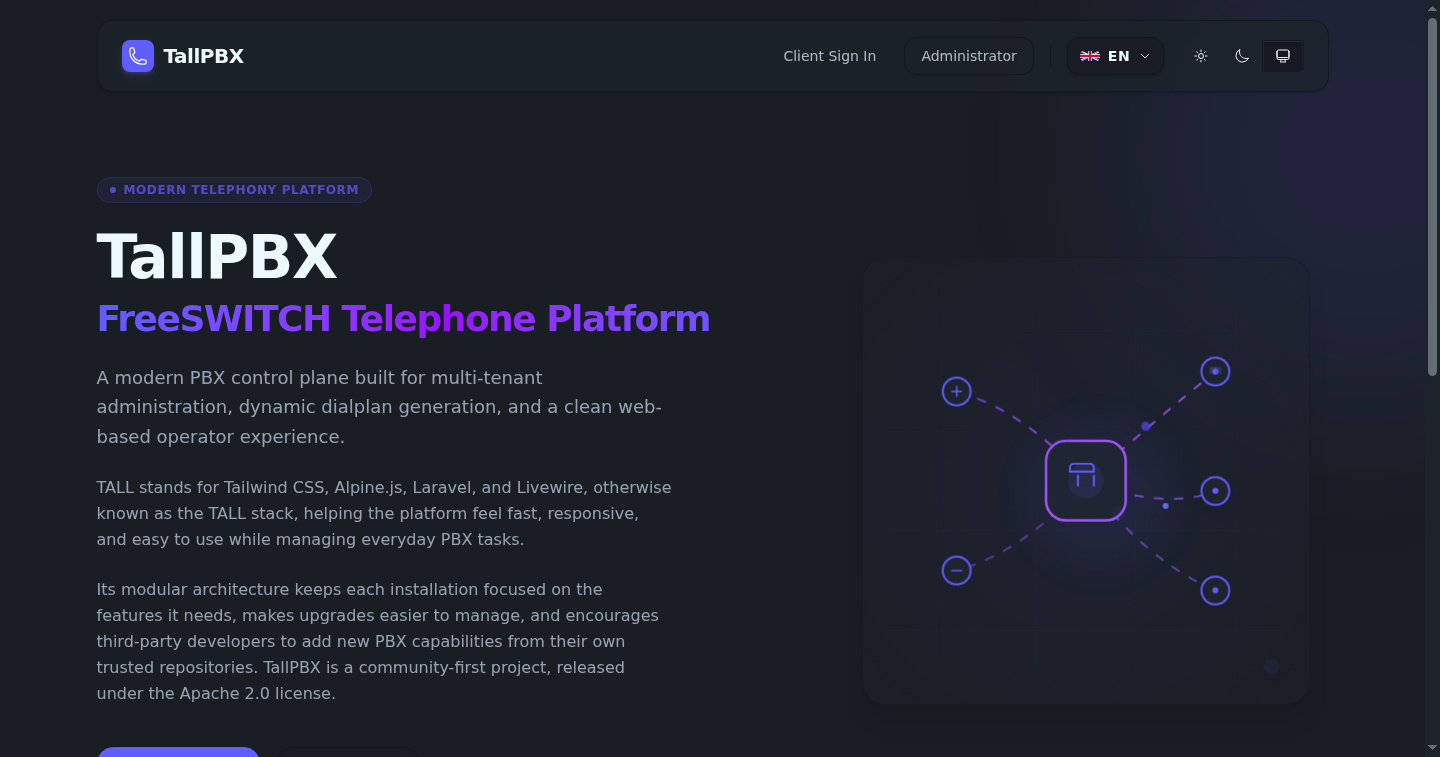
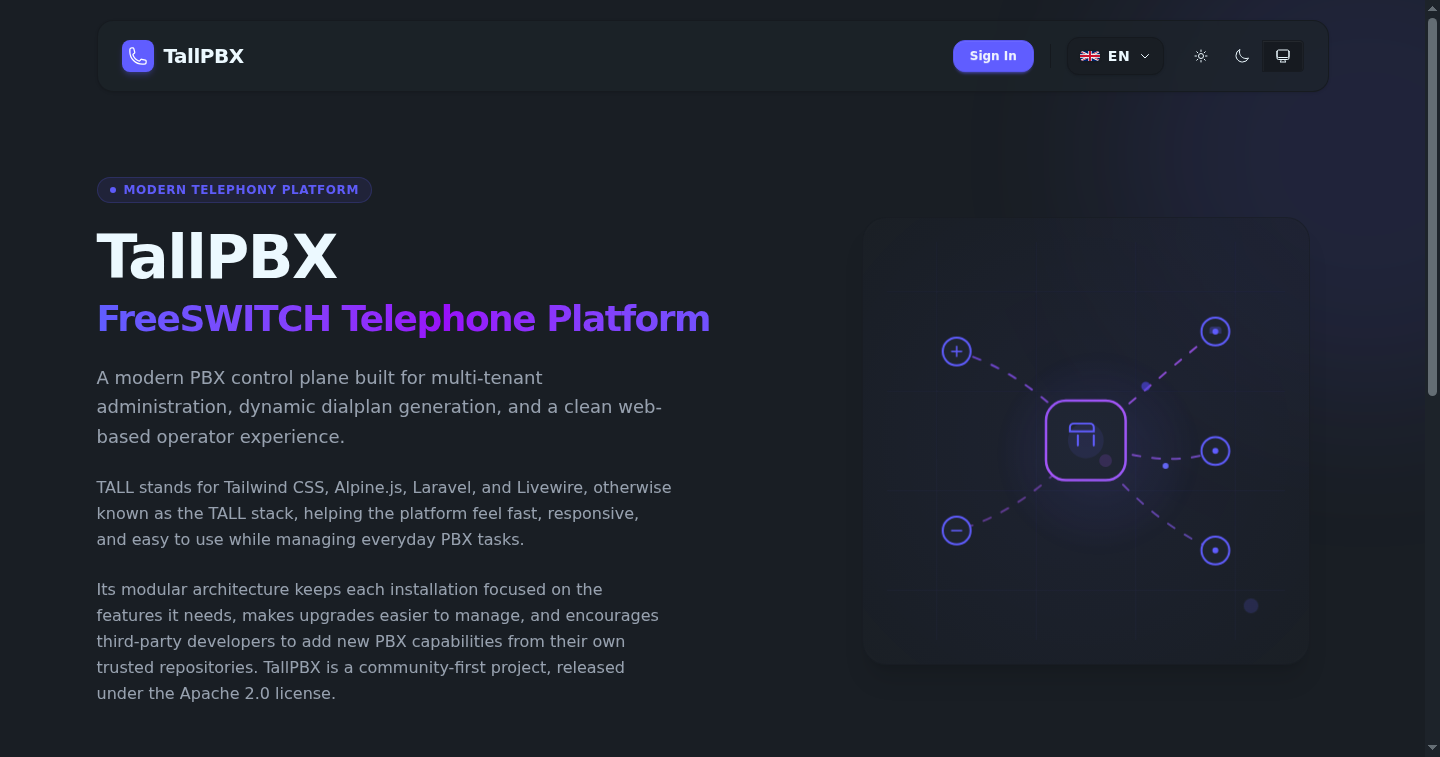
feat: unify panel login, simplify landing page header CTA, remove hero login buttons, and update tour screenshots

diff --git a/app/Http/Controllers/Admin/AuthController.php b/app/Http/Controllers/Admin/AuthController.php
@@ -34,10 +34,12 @@ class AuthController extends Controller
     }
 
     /**
-     * Handle an incoming admin login request.
+     * Handle an incoming login request for the unified panel.
      *
-     * Validates credentials, checks the admin account is enabled,
-     * regenerates the session, and redirects to the dashboard.
+     * Validates credentials and attempts authentication against the admin guard
+     * first (system administrators), then falls back to the web guard (tenant users).
+     * Ensures the matching account is enabled, regenerates the session, and redirects
+     * to the unified panel dashboard.
      */
     public function store(Request $request): RedirectResponse
     {
@@ -46,29 +48,77 @@ class AuthController extends Controller
             'password' => ['required'],
         ]);
 
-        if (! Auth::guard('admin')->attempt($credentials, $request->boolean('remember'))) {
-            throw ValidationException::withMessages([
-                'email' => __('auth.failed'),
-            ]);
+        $remember = $request->boolean('remember');
+
+        // 1. Attempt admin authentication (system administrators)
+        if (Auth::guard('admin')->attempt($credentials, $remember)) {
+            /** @var Admin $admin */
+            $admin = Auth::guard('admin')->user();
+
+            if (! $admin->enabled) {
+                Auth::guard('admin')->logout();
+
+                $request->session()->invalidate();
+                $request->session()->regenerateToken();
+
+                throw ValidationException::withMessages([
+                    'email' => __('auth.disabled'),
+                ]);
+            }
+
+            $request->session()->regenerate();
+
+            return redirect()->intended(route('panel.dashboard'));
         }
 
-        /** @var Admin $admin */
-        $admin = Auth::guard('admin')->user();
+        // 2. Attempt web authentication (tenant users)
+        if (Auth::guard('web')->attempt($credentials, $remember)) {
+            /** @var \App\Models\User $user */
+            $user = Auth::guard('web')->user();
 
-        if (! $admin->enabled) {
-            Auth::guard('admin')->logout();
+            if (! $user->enabled) {
+                Auth::guard('web')->logout();
 
-            $request->session()->invalidate();
-            $request->session()->regenerateToken();
+                $request->session()->invalidate();
+                $request->session()->regenerateToken();
 
-            throw ValidationException::withMessages([
-                'email' => __('auth.disabled'),
-            ]);
+                throw ValidationException::withMessages([
+                    'email' => __('auth.disabled'),
+                ]);
+            }
+
+            $request->session()->regenerate();
+
+            // When the user logs in through a tenant-specific domain, resolve
+            // the tenant from the login host and set it as the active context.
+            $loginDomain = $request->getHost();
+
+            if ($loginDomain !== '' && filter_var($loginDomain, FILTER_VALIDATE_IP) === false) {
+                $resolver = app(\App\Services\TenantIdentityResolver::class);
+                $identity = $resolver->resolveFromDomain($loginDomain);
+
+                if ($identity !== null) {
+                    $belongs = $user->tenants()
+                        ->where('tenant_id', $identity->tenantId)
+                        ->exists();
+
+                    if ($belongs) {
+                        $tenant = \App\Models\Tenant::find($identity->tenantId);
+
+                        if ($tenant !== null) {
+                            app(\App\Services\TenantContext::class)->switch($tenant);
+                        }
+                    }
+                }
+            }
+
+            return redirect()->intended(route('panel.dashboard'));
         }
 
-        $request->session()->regenerate();
-
-        return redirect()->intended(route('panel.dashboard'));
+        // 3. Neither admin nor tenant user matched the credentials
+        throw ValidationException::withMessages([
+            'email' => __('auth.failed'),
+        ]);
     }
 
     /**

diff --git a/app/Http/Controllers/Auth/AuthenticatedSessionController.php b/app/Http/Controllers/Auth/AuthenticatedSessionController.php
@@ -21,76 +21,19 @@ use Illuminate\View\View;
 class AuthenticatedSessionController extends Controller
 {
     /**
-     * Show the portal login form.
+     * Show the unified panel login form.
      */
     public function create(): View
     {
-        return view('tenant::auth.tenant-login');
+        return view('admin::auth.admin-login');
     }
 
     /**
-     * Handle an incoming login request.
-     *
-     * Validates credentials, checks the user account is enabled,
-     * regenerates the session, and redirects to the dashboard.
+     * Handle an incoming login request via the unified authentication handler.
      */
     public function store(Request $request): RedirectResponse
     {
-        $credentials = $request->validate([
-            'email' => ['required', 'email'],
-            'password' => ['required'],
-        ]);
-
-        if (! Auth::guard('web')->attempt($credentials, $request->boolean('remember'))) {
-            throw ValidationException::withMessages([
-                'email' => __('auth.failed'),
-            ]);
-        }
-
-        /** @var User $user */
-        $user = Auth::guard('web')->user();
-
-        if (! $user->enabled) {
-            Auth::guard('web')->logout();
-
-            $request->session()->invalidate();
-            $request->session()->regenerateToken();
-
-            throw ValidationException::withMessages([
-                'email' => __('auth.disabled'),
-            ]);
-        }
-
-        $request->session()->regenerate();
-
-        // When the user logs in through a tenant-specific domain, resolve
-        // the tenant from the login host and set it as the active context.
-        // Users who belong to a single tenant always get that tenant; users
-        // with multiple tenants get the domain-matched tenant if they belong
-        // to it, otherwise they keep their default tenant context.
-        $loginDomain = $request->getHost();
-
-        if ($loginDomain !== '' && filter_var($loginDomain, FILTER_VALIDATE_IP) === false) {
-            $resolver = app(TenantIdentityResolver::class);
-            $identity = $resolver->resolveFromDomain($loginDomain);
-
-            if ($identity !== null) {
-                // Verify the user belongs to the resolved tenant.
-                $belongs = $user->tenants()
-                    ->where('tenant_id', $identity->tenantId)
-                    ->exists();
-
-                if ($belongs) {
-                    $tenant = Tenant::find($identity->tenantId);
-
-                    if ($tenant !== null) {
-                        app(TenantContext::class)->switch($tenant);
-                    }
-                }
-            }
-        }
-
-        return redirect()->intended(route('panel.dashboard'));
+        return app(\App\Http\Controllers\Admin\AuthController::class)->store($request);
     }
 
     /**

diff --git a/resources/views/pages/home.blade.php b/resources/views/pages/home.blade.php
@@ -8,7 +8,7 @@
         <meta name="description" content="{{ __('home.seo.description') }}">
         <meta name="keywords" content="{{ __('home.seo.keywords') }}">
 
-        <!-- Hreflang Tags for SEO -->
+        <!-- Alternate language links -->
         <link rel="alternate" hreflang="en" href="{{ url('en') }}" />
         <link rel="alternate" hreflang="es" href="{{ url('es') }}" />
         <link rel="alternate" hreflang="fr" href="{{ url('fr') }}" />
@@ -66,11 +66,8 @@
 
                 <div class="flex items-center gap-4">
                     <div class="flex items-center gap-3">
-                        <a href="{{ route('panel.login') }}" class="px-4 py-2 text-sm font-medium text-base-content/70 hover:text-base-content transition-colors">
-                            {{ __('home.nav.client_sign_in') }}
-                        </a>
-                        <a href="{{ route('panel.login') }}" class="px-4 py-2 text-sm font-medium text-base-content/70 border border-base-300 hover:bg-base-200 rounded-xl transition-all">
-                            {{ __('home.nav.administrator') }}
+                        <a href="{{ route('panel.login') }}" class="btn btn-primary btn-sm rounded-xl px-4">
+                            {{ __('home.nav.sign_in') }}
                         </a>
                     </div>
 
@@ -110,16 +107,6 @@
                     <p class="text-base text-base-content/60 max-w-xl leading-relaxed">
                         {{ __('home.hero.modular_summary') }}
                     </p>
-
-                    <div class="flex flex-col sm:flex-row gap-4 pt-4">
-                        <a href="{{ route('panel.login') }}" class="btn btn-primary gap-2 rounded-2xl">
-                            <span>{{ __('home.nav.client_sign_in') }}</span>
-                            <x-heroicon-o-arrow-right class="w-4 h-4" />
-                        </a>
-                        <a href="{{ route('panel.login') }}" class="btn btn-ghost rounded-2xl border border-base-300">
-                            {{ __('home.nav.administrator') }}
-                        </a>
-                    </div>
                 </div>
 
                 <div class="lg:col-span-5 flex justify-center items-center">

diff --git a/app-modules/admin/resources/views/auth/admin-login.blade.php b/app-modules/admin/resources/views/auth/admin-login.blade.php
@@ -3,7 +3,7 @@
 <head>
     <meta charset="utf-8">
     <meta name="viewport" content="width=device-width, initial-scale=1">
-    <title>Admin Login — TallPBX</title>
+    <title>{{ __('admin.sign_in') }} — {{ config('app.name', 'TallPBX') }}</title>
     @fonts
     @vite(['resources/css/app.css', 'resources/js/app.js'])
 
@@ -22,8 +22,8 @@
     <div class="w-full max-w-md mx-4">
         <div class="text-center mb-8">
             <x-heroicon-o-phone class="w-12 h-12 text-primary mx-auto mb-3" />
-            <h1 class="text-2xl font-bold">{{ __('admin.login_title') }}</h1>
-            <p class="text-sm text-base-content/60 mt-1">{{ __('admin.login_subtitle') }}</p>
+            <h1 class="text-2xl font-bold">{{ config('app.name', 'TallPBX') }}</h1>
+            <p class="text-sm text-base-content/60 mt-1">{{ __('client.sign_in_title') }}</p>
         </div>
 
         <div class="card bg-base-100 border border-base-300 p-6">
@@ -45,9 +45,12 @@
                     <input type="password" name="password" id="password" required
                         class="input input-bordered w-full" />
                 </div>
-                <div class="mb-6 flex items-center gap-2">
-                    <input type="checkbox" name="remember" id="remember" class="checkbox checkbox-primary" />
-                    <label for="remember" class="text-sm text-base-content/60">{{ __('admin.remember_me') }}</label>
+                <div class="mb-6 flex items-center justify-between">
+                    <label class="flex items-center gap-2 cursor-pointer">
+                        <input type="checkbox" name="remember" id="remember" class="checkbox checkbox-primary" />
+                        <span class="text-sm text-base-content/60">{{ __('admin.remember_me') }}</span>
+                    </label>
+                    <a href="{{ route('panel.password.request') }}" class="text-sm link link-primary">{{ __('client.forgot_password') }}</a>
                 </div>
                 <button type="submit" class="btn btn-primary w-full">{{ __('admin.sign_in') }}</button>
             </form>

diff --git a/tests/Feature/Auth/AdminAuthTest.php b/tests/Feature/Auth/AdminAuthTest.php
@@ -38,10 +38,10 @@ beforeEach(function () {
     ]);
 });
 
-it('shows the admin login page', function () {
+it('shows the unified login page', function () {
     get(route('panel.login'))
         ->assertOk()
-        ->assertSee('TallPBX Admin')
+        ->assertSee('TallPBX')
         ->assertSee('email')
         ->assertSee('password');
 });
@@ -59,6 +59,20 @@ it('authenticates an admin with valid credentials', function () {
     ])->assertRedirect(route('panel.dashboard'));
 
     $this->assertAuthenticatedAs($this->admin, 'admin');
+});
+
+it('authenticates a tenant user with valid credentials through the unified login', function () {
+    $user = \App\Models\User::factory()->create([
+        'email' => 'tenantuser@example.com',
+        'password' => bcrypt('password'),
+    ]);
+
+    post(route('panel.login.store'), [
+        'email' => 'tenantuser@example.com',
+        'password' => 'password',
+    ])->assertRedirect(route('panel.dashboard'));
+
+    $this->assertAuthenticatedAs($user, 'web');
 });
 
 it('rejects invalid credentials', function () {

diff --git a/app/Http/Middleware/RedirectIfAdmin.php b/app/Http/Middleware/RedirectIfAdmin.php
@@ -10,10 +10,11 @@ use Illuminate\Support\Facades\Auth;
 use Symfony\Component\HttpFoundation\Response;
 
 /**
- * Redirects authenticated admin users away from login pages.
+ * Redirects authenticated panel users away from login pages.
  *
- * If the user is already authenticated as an admin, sending them
- * to the login page makes no sense — redirect to the dashboard instead.
+ * If the visitor is already authenticated as either a system administrator
+ * or a tenant user, sending them to the login page makes no sense — redirect
+ * to the unified dashboard instead.
  */
 class RedirectIfAdmin
 {
@@ -22,7 +23,7 @@ class RedirectIfAdmin
      */
     public function handle(Request $request, Closure $next): Response
     {
-        if (Auth::guard('admin')->check()) {
+        if (Auth::guard('admin')->check() || Auth::guard('web')->check()) {
             return redirect()->route('panel.dashboard');
         }
 

diff --git a/routes/web.php b/routes/web.php
@@ -57,7 +57,7 @@ Route::get('lang/{locale}', function (string $locale) {
     return redirect()->back();
 })->name('lang.switch');
 
-// ─── Public Guest Pages (locale-prefixed for SEO) ─────────────────────────────
+// ─── Public Guest Pages (locale-prefixed) ─────────────────────────────────────
 Route::group(['prefix' => '{locale}', 'where' => ['locale' => 'en|es|fr']], function () {
     Route::get('/', fn () => view('pages.home'))->name('home');
 });

diff --git a/tests/Feature/Middleware/RedirectIfAdminTest.php b/tests/Feature/Middleware/RedirectIfAdminTest.php
@@ -13,6 +13,14 @@ it('redirects authenticated admin away from admin login', function () {
         ->assertRedirect(route('panel.dashboard'));
 });
 
+it('redirects authenticated tenant user away from login', function () {
+    $user = \App\Models\User::factory()->create();
+
+    actingAs($user, 'web')
+        ->get(route('panel.login'))
+        ->assertRedirect(route('panel.dashboard'));
+});
+
 it('allows guest to view admin login page', function () {
     // Normal login behavior applies only after initial administrator setup.
     Admin::factory()->create();

diff --git a/tests/Feature/Livewire/AuthResetPasswordTest.php b/tests/Feature/Livewire/AuthResetPasswordTest.php
@@ -33,7 +33,7 @@ it('resets the password with valid token', function () {
         ->set('password', 'new-secret-123')
         ->set('password_confirmation', 'new-secret-123')
         ->call('resetPassword')
-        ->assertRedirect(route('panel.login.tenant'));
+        ->assertRedirect(route('panel.login'));
 
     // Verify the password was actually changed
     $this->assertTrue(Hash::check('new-secret-123', $user->fresh()->password));

diff --git a/tests/Feature/Http/RootRouteTest.php b/tests/Feature/Http/RootRouteTest.php
@@ -20,8 +20,7 @@ it('shows landing page for guests with locale prefix', function () {
         ->assertSee('modular architecture keeps each installation focused')
         ->assertSee('third-party developers')
         ->assertSee('trusted repositories')
-        ->assertSee('Client Sign In')
-        ->assertSee('Administrator');
+        ->assertSee('Sign In');
 });
 
 it('redirects authenticated admin to admin dashboard', function () {

diff --git a/app-modules/auth/resources/views/register.blade.php b/app-modules/auth/resources/views/register.blade.php
@@ -40,7 +40,7 @@
 
             <div class="text-center mt-4 text-sm text-base-content/60">
                 {{ __('client.already_have_account') }}
-                <a href="{{ route('panel.login.tenant') }}" class="link link-primary">{{ __('client.sign_in') }}</a>
+                <a href="{{ route('panel.login') }}" class="link link-primary">{{ __('client.sign_in') }}</a>
             </div>
         </div>
     </div>

diff --git a/app-modules/auth/resources/views/forgot-password.blade.php b/app-modules/auth/resources/views/forgot-password.blade.php
@@ -19,7 +19,7 @@
             </form>
 
             <div class="text-center mt-4 text-sm text-base-content/60">
-                <a href="{{ route('panel.login.tenant') }}" class="link link-primary">{{ __('client.back_to_sign_in') }}</a>
+                <a href="{{ route('panel.login') }}" class="link link-primary">{{ __('client.back_to_sign_in') }}</a>
             </div>
         </div>
     </div>
